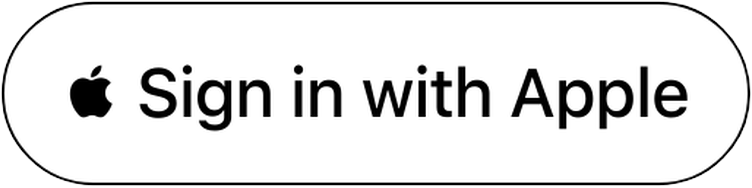
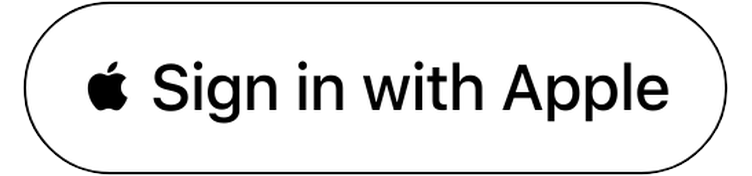
Equal text size on the Google and Apple buttons
Claude-Session: https://claude.ai/code/session_01CBAHECh1WJSuAPrNZPBHwG

diff --git a/src/saas.js b/src/saas.js
@@ -145,7 +145,7 @@ code{background:var(--soft);padding:4px 8px;border-radius:8px;word-break:break-a
 <footer>© ${new Date().getFullYear()} Touslemonde LLC · <a href="/terms">Όροι</a> · <a href="/privacy">Απόρρητο</a> · <a href="/contact">Επικοινωνία</a></footer></body></html>`;
 
 const NOTE_OFF = "Η σύνδεση ενεργοποιείται σύντομα.";
-const socialButtons = (q = "") => `<a class="sbtn" href="/auth/google${q}"><img src="/btn-google.png" alt="Sign in with Google"></a><a class="sbtn" href="/auth/apple${q}"><img src="/btn-apple.png" alt="Sign in with Apple"></a>`;
+const socialButtons = (q = "") => `<a class="sbtn" href="/auth/google${q}"><img src="/btn-google.png?v=2" alt="Sign in with Google"></a><a class="sbtn" href="/auth/apple${q}"><img src="/btn-apple.png?v=2" alt="Sign in with Apple"></a>`;
 const loginPage = (msg = "") => shell("Σύνδεση", `<main><div class="card"><h1>Σύνδεση</h1><p class="mut">Συνδεθείτε με τον λογαριασμό Google ή Apple σας.</p>${msg ? `<p class="err" role="alert">${esc(msg)}</p>` : ""}${socialButtons()}
 <p class="mut" style="margin-top:16px">Είστε μεσιτικό γραφείο χωρίς λογαριασμό; <a href="/signup">Εγγραφή γραφείου</a></p>
 <p class="mut">Είστε συνεργάτης; Ζητήστε τον σύνδεσμο πρόσκλησης από το γραφείο σας.</p></div></main>`);
@@ -156,7 +156,7 @@ ${full ? `<p class="err" role="alert">Το γραφείο δεν έχει ελε
 <form method="get" action="/auth/google"><input type="hidden" name="invite" value="${esc(invite)}"><input type="hidden" name="plan" value="${esc(plan)}">
 ${orgName ? "" : `<label for="o">Επωνυμία γραφείου</label><input id="o" type="text" name="office" maxlength="120" autocomplete="organization" required>`}
 <label class="chk"><input type="checkbox" name="terms" value="1" required><span>Αποδέχομαι τους <a href="/terms" target="_blank" rel="noopener">όρους χρήσης</a> και την <a href="/privacy" target="_blank" rel="noopener">πολιτική απορρήτου</a>.</span></label>
-${msg ? `<p class="err" role="alert">${esc(msg)}</p>` : ""}<button type="submit" class="sbtn" formaction="/auth/google"><img src="/btn-google.png" alt="Sign in with Google"></button><button type="submit" class="sbtn" formaction="/auth/apple"><img src="/btn-apple.png" alt="Sign in with Apple"></button></form>
+${msg ? `<p class="err" role="alert">${esc(msg)}</p>` : ""}<button type="submit" class="sbtn" formaction="/auth/google"><img src="/btn-google.png?v=2" alt="Sign in with Google"></button><button type="submit" class="sbtn" formaction="/auth/apple"><img src="/btn-apple.png?v=2" alt="Sign in with Apple"></button></form>
 <p class="mut" style="margin-top:16px">Έχετε ήδη λογαριασμό; <a href="/login">Σύνδεση</a></p></div></main>`}`);
 
 function accountPage(req, who, org, team, note = "") {
